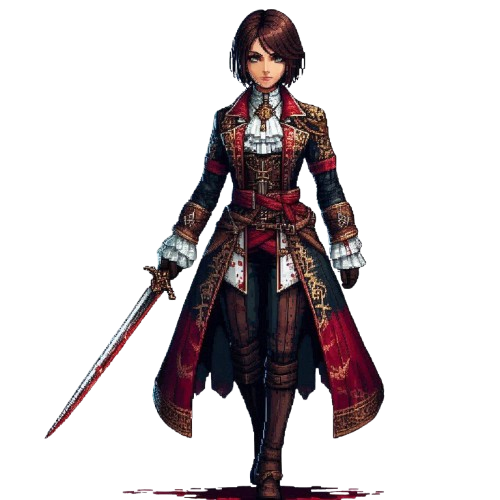
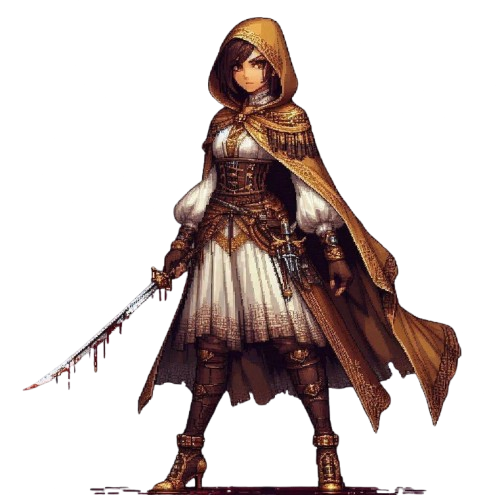
vampire add
vampire add

diff --git a/src/components/CharCard/char.css b/src/components/CharCard/char.css
@@ -3,14 +3,13 @@
 }
 .warrior2 .char img {
   height: 82%;
-  width: 150%;
-  padding-right: 25%;
+  padding-right: 28%;
 }
 
-.darkMage1 .char img {
+.necromancer1 .char img {
   height: 57%;
 }
-.darkMage2 .char img {
+.necromancer2 .char img {
   height: 75%;
 }
 
@@ -18,7 +17,7 @@
   height: 60%;
 }
 .rogue2 .char img {
-  height: 72%;
+  height: 70%;
 }
 
 .priest1 .char img {
@@ -39,8 +38,7 @@
   height: 50%;
 }
 .werewolf2 .char img {
-  height: 90%;
-  width: 140%;
+  height: 80%;
 }
 
 .jester1 .char img {
@@ -51,19 +49,9 @@
   padding-right: 25%;
 }
 
-.infectado1 .char img {
-  height: 70%;
+.vampire1 .char img {
+  height: 65%;
 }
-.infectado2 .char img {
-  height: 85%;
-}
-
-.batedor1 .char img {
-  height: 55%;
-  width: 90%;
-}
-.batedor2 .char img {
-  height: 85%;
-  width: 130%;
-  padding-right: 10%;
+.vampire2 .char img {
+  height: 75%;
 }

diff --git a/src/pages/MyChar/index.js b/src/pages/MyChar/index.js
@@ -19,7 +19,7 @@ export default function MyChar() {
     getCustomers()
   }, [])
 
-  const cardsQuantity = 6
+  const cardsQuantity = 5
   const [startIndex, setStartIndex] = useState(0)
   const visibleCharacters = characters.slice(
     startIndex,

diff --git a/src/components/CharCard/IconContent/style.css b/src/components/CharCard/IconContent/style.css
@@ -32,7 +32,7 @@
 .book-div label,
 .search-div label {
   font-family: 'Times New Roman', Times, serif;
-  font-size: 1em;
+  font-size: min(0.8vw, 0.7rem);
   color: white;
 }
 

diff --git a/src/pages/MyChar/style.css b/src/pages/MyChar/style.css
@@ -11,5 +11,5 @@
 }
 
 .my-char .wrapper {
-  width: 15%;
+  width: 16.5%;
 }
